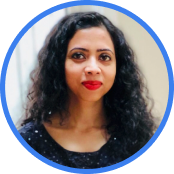
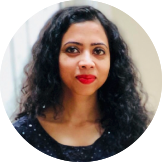
fixed photos

diff --git a/src/pages/ContactPage/ContactPage.jsx b/src/pages/ContactPage/ContactPage.jsx
@@ -13,6 +13,7 @@ const ContactPage = ({ user, setUser }) => {
           <div id='manager-div'>
             <div>
               <img 
+                class='contact-img'
                 src={require('../../utils/images/Yev.png')} 
                 style={{height: '100px'}}>
               </img>
@@ -24,6 +25,7 @@ const ContactPage = ({ user, setUser }) => {
             </div>
             <div>
               <img 
+                class='contact-img'
                 src={require('../../utils/images/sarah.png')} 
                 style={{height: '100px'}}>
               </img>
@@ -40,6 +42,7 @@ const ContactPage = ({ user, setUser }) => {
           <div id='design-div'>
             <div>
               <img 
+                class='contact-img'
                 src={require('../../utils/images/mahita.png')} 
                 style={{height: '100px'}}>
               </img>
@@ -51,6 +54,7 @@ const ContactPage = ({ user, setUser }) => {
             </div>
             <div>
               <img 
+                class='contact-img'
                 src={require('../../utils/images/david.png')} 
                 style={{height: '100px'}}>
               </img>
@@ -62,6 +66,7 @@ const ContactPage = ({ user, setUser }) => {
             </div>
             <div>
               <img 
+                class='contact-img'
                 src={require('../../utils/images/jinah.png')} 
                 style={{height: '100px'}}>
               </img>
@@ -73,6 +78,7 @@ const ContactPage = ({ user, setUser }) => {
             </div>
             <div>
               <img 
+                class='contact-img'
                 src={require('../../utils/images/dona.png')} 
                 style={{height: '100px'}}>
               </img>
@@ -86,6 +92,7 @@ const ContactPage = ({ user, setUser }) => {
             </div>
             <div>
               <img 
+                class='contact-img'
                 src={require('../../utils/images/kay.png')} 
                 style={{height: '100px'}}>
               </img>
@@ -97,6 +104,7 @@ const ContactPage = ({ user, setUser }) => {
             </div>
             <div>
               <img 
+                class='contact-img'
                 src={require('../../utils/images/may.png')} 
                 style={{height: '100px'}}>
               </img>
@@ -108,6 +116,7 @@ const ContactPage = ({ user, setUser }) => {
             </div>
             <div>
               <img 
+                class='contact-img'
                 src={require('../../utils/images/megan.png')} 
                 style={{height: '100px'}}>
                 </img>
@@ -119,6 +128,7 @@ const ContactPage = ({ user, setUser }) => {
             </div>        
             <div>
               <img 
+                class='contact-img'
                 src={require('../../utils/images/luisa.png')} 
                 style={{height: '100px'}}>
               </img>
@@ -130,6 +140,7 @@ const ContactPage = ({ user, setUser }) => {
             </div>
             <div className="farnoosh" >
               <img 
+                class='contact-img'
                 src={require('../../utils/images/farnoosh.png')} 
                 style={{height: '100px'}}>
               </img>
@@ -146,6 +157,7 @@ const ContactPage = ({ user, setUser }) => {
           <div id='engineer-div'>
             <div>
               <img 
+                class='contact-img'
                 src={require('../../utils/images/nisha.png')} 
                 style={{height: '100px'}}>
               </img>
@@ -157,6 +169,7 @@ const ContactPage = ({ user, setUser }) => {
             </div>
             <div>
               <img 
+                class='contact-img'
                 src={require('../../utils/images/roman.png')} 
                 style={{height: '100px'}}>
               </img>
@@ -168,6 +181,7 @@ const ContactPage = ({ user, setUser }) => {
             </div>
             <div>
               <img 
+                class='contact-img'
                 src={require('../../utils/images/michael.png')} 
                 style={{height: '100px'}}>
               </img>
@@ -179,6 +193,7 @@ const ContactPage = ({ user, setUser }) => {
             </div>
             <div> 
               <img 
+                class='contact-img'
                 src={require('../../utils/images/yi.png')} 
                 style={{height: '100px'}}>
               </img>
@@ -190,6 +205,7 @@ const ContactPage = ({ user, setUser }) => {
             </div>
             <div>
               <img 
+                class='contact-img'
                 src={require('../../utils/images/trevor.png')} 
                 style={{height: '100px'}}>
               </img>
@@ -201,6 +217,7 @@ const ContactPage = ({ user, setUser }) => {
             </div>
             <div> 
               <img 
+                class='contact-img'
                 src={require('../../utils/images/james.png')} 
                 style={{height: '100px'}}>
               </img>
@@ -212,6 +229,7 @@ const ContactPage = ({ user, setUser }) => {
             </div>
             <div> 
               <img 
+                class='contact-img'
                 src={require('../../utils/images/kris.png')} 
                 style={{height: '100px'}}>
               </img>
@@ -223,6 +241,7 @@ const ContactPage = ({ user, setUser }) => {
             </div>
             <div> 
               <img 
+                class='contact-img'
                 src={require('../../utils/images/maika.png')} 
                 style={{height: '100px'}}>
               </img>
@@ -239,6 +258,7 @@ const ContactPage = ({ user, setUser }) => {
           <div id='data-div'>
             <div>
               <img 
+                class='contact-img'
                 src={require('../../utils/images/joshua.png')} 
                 style={{height: '100px'}}>
               </img>
@@ -250,6 +270,7 @@ const ContactPage = ({ user, setUser }) => {
             </div>
             <div>
               <img 
+                class='contact-img'
                 src={require('../../utils/images/pic3.png')} 
                 style={{height: '100px'}}>
               </img>
@@ -261,6 +282,7 @@ const ContactPage = ({ user, setUser }) => {
             </div>
             <div>
               <img 
+                class='contact-img'
                 src={require('../../utils/images/pic4.png')} 
                 style={{height: '100px'}}>
               </img>
@@ -272,6 +294,7 @@ const ContactPage = ({ user, setUser }) => {
             </div>
             <div>
               <img 
+                class='contact-img'
                 src={require('../../utils/images/morgan.png')} 
                 style={{height: '100px'}}>
               </img>

diff --git a/src/pages/ContactPage/ContactPage.css b/src/pages/ContactPage/ContactPage.css
@@ -31,8 +31,8 @@
     border: rgb(0, 105, 252) 8px;
 }
 
-#design-div > div > img {
-    border: rgb(0, 105, 252) 8px;
+.contact-img {
+    border: 3px solid #1469bd;
     border-radius: 100%;
 }
 
